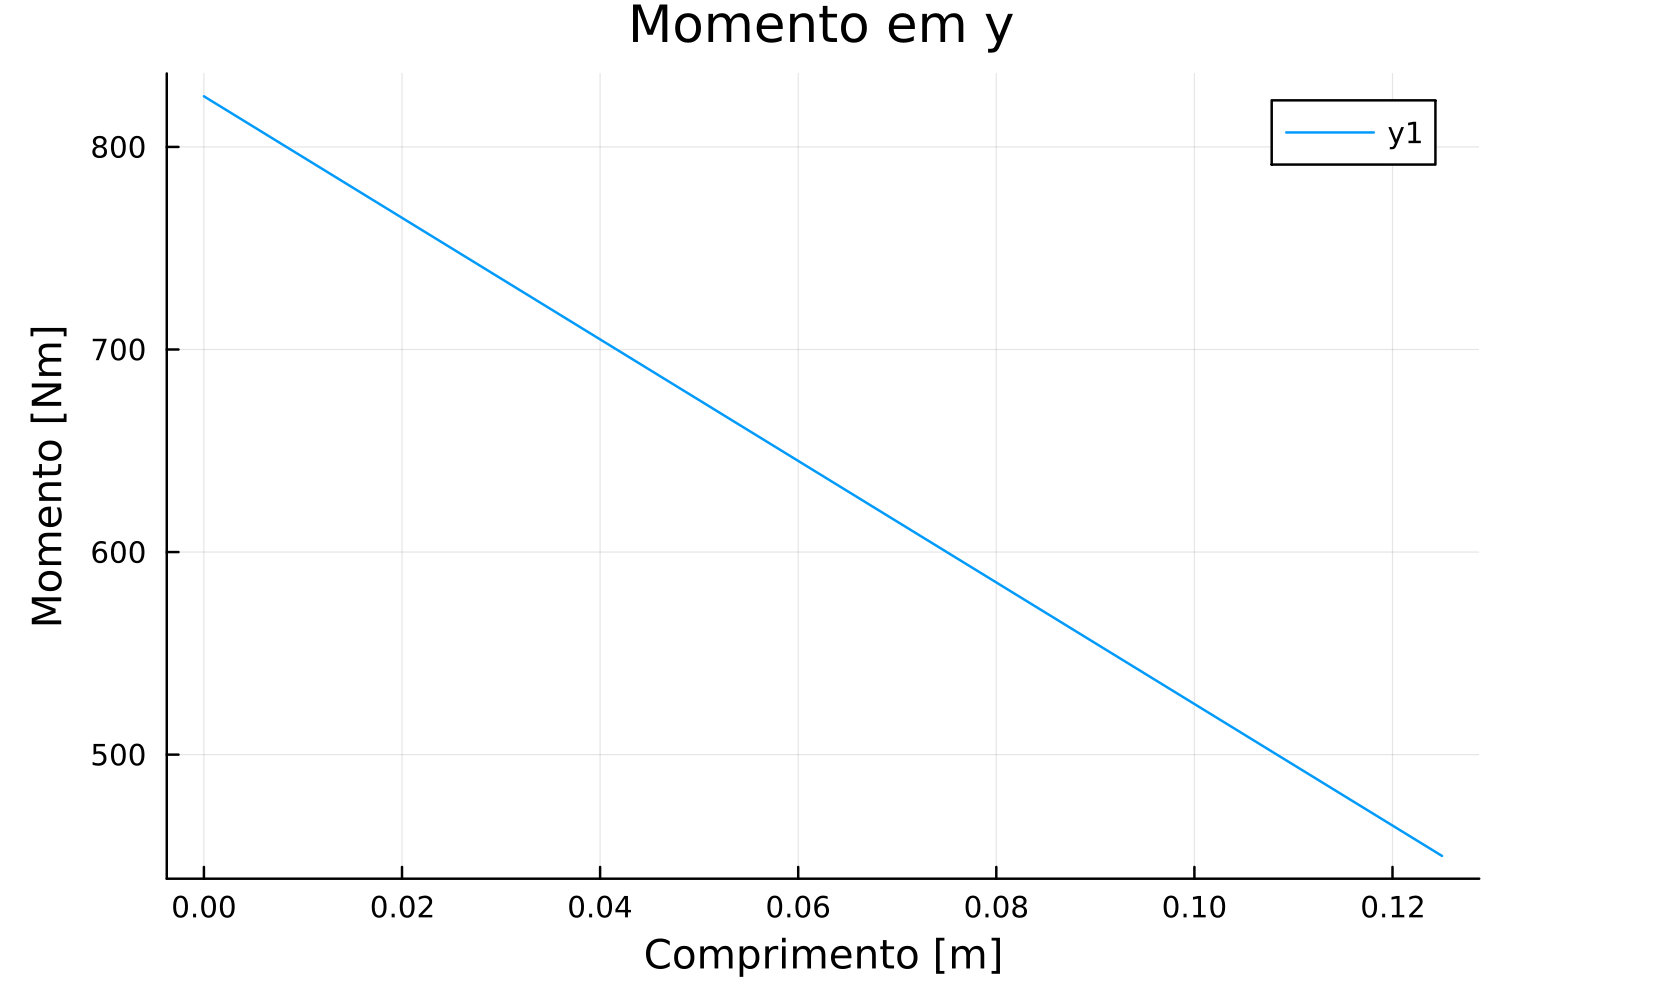
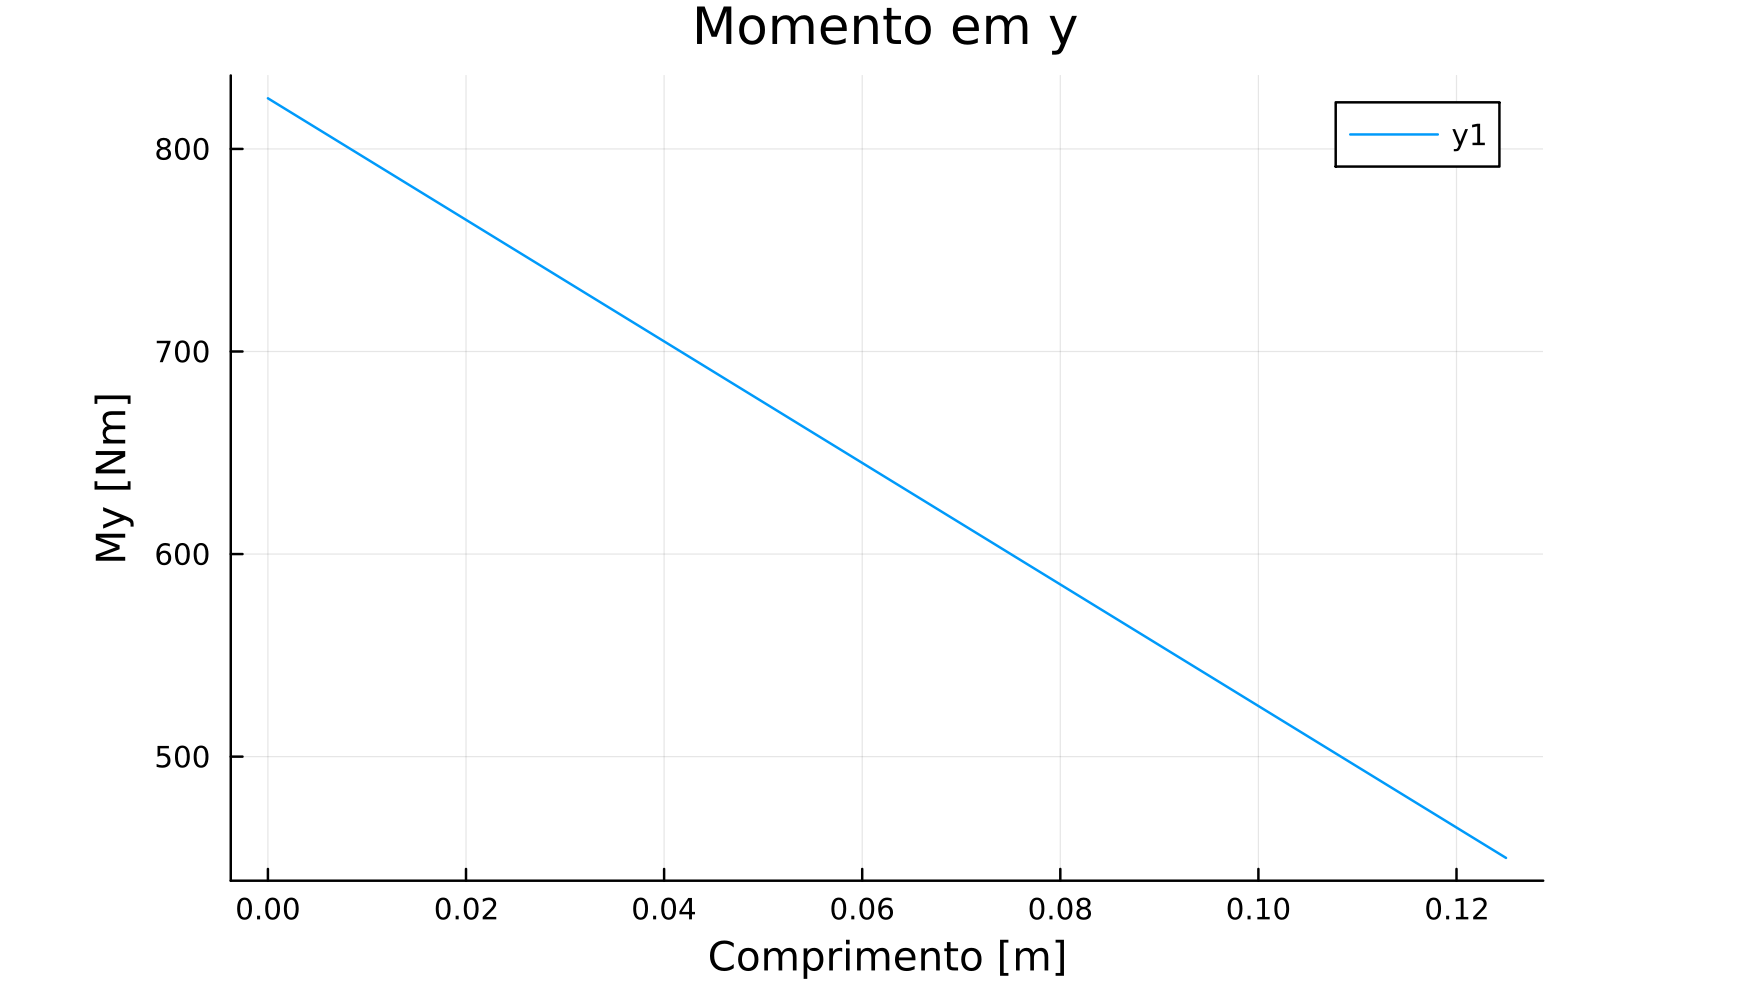
adicionando os plots e mudando o label y

diff --git a/README.md b/README.md
@@ -424,7 +424,7 @@ Por fim, decida qual esforço você quer visualizar:
 6 - Momento em z [ Mz(x) ]
 
 ```bash
-plot(x,esforcos[5].(x),title="Momento em y")
+plot(x,esforcos[5].(x),title="Momento em y", xlabel = "Comprimento [m]", ylabel = "My [Nm]")
 ```
 # Testes 
 
